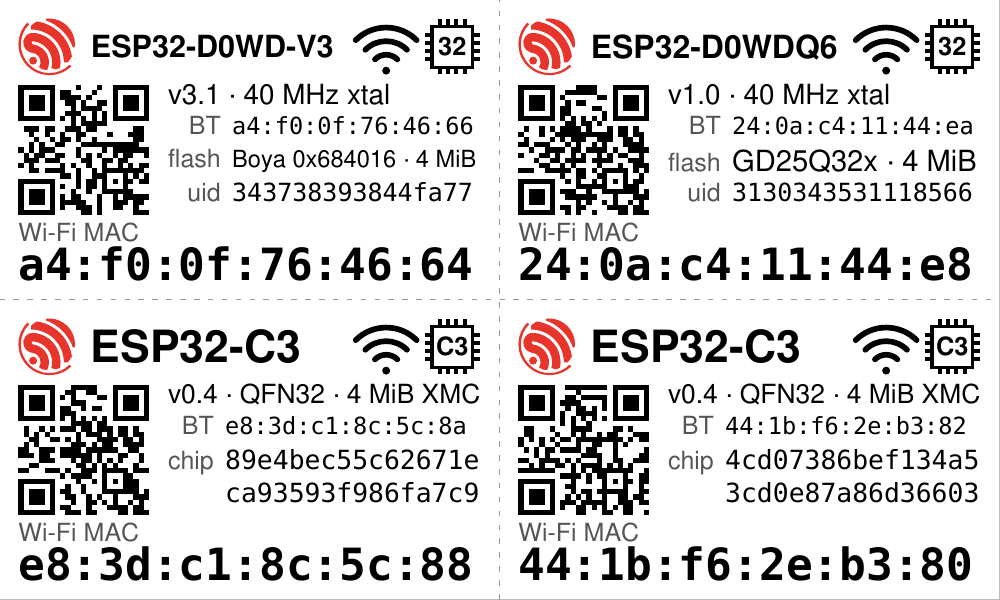
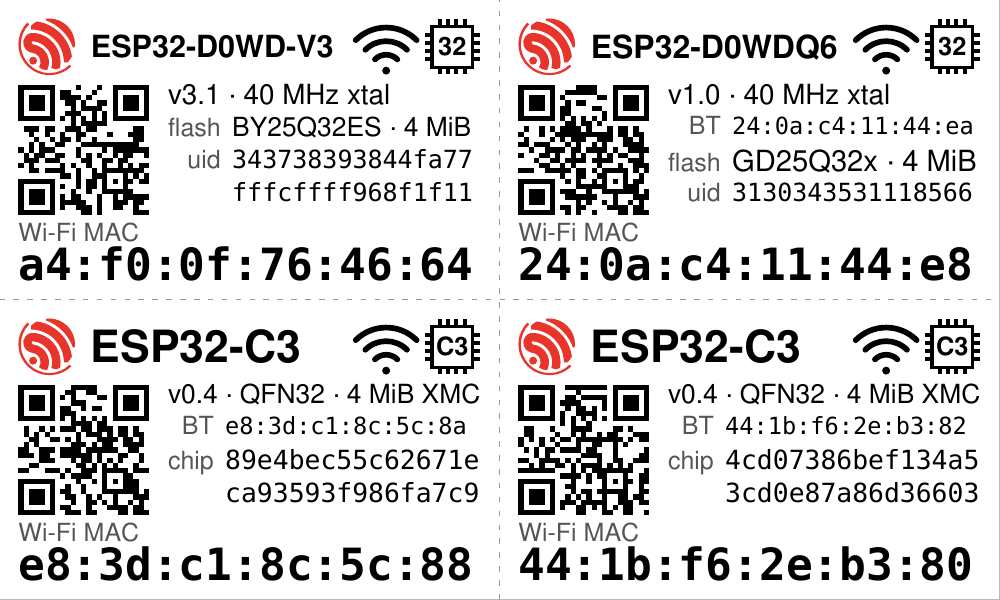
esp32_micro: a 128-bit flash uid over two rows, and the reads of 09-27
The fixture is now the reads the register-level probe made on
2026-09-27: every flash's RDID, status registers, whole SFDP and whole
unique id. The ESP32-CAM's Boya gave 128 bits, which the id alone
(0x684016, shared by the BY25Q32BS and ES) cannot name but the uid's
length can: the BS datasheet gives 64 bits, the ES 128. Its uid now
takes two rows, where the derived Bluetooth MAC was. 0x46 is XMC (ESP-
IDF's SPI_FLASH_XMC_2, its "XMC-D").

Claude-Session: https://claude.ai/code/session_01PBYpeR32kHxmN65GqkGhJx

Changed region(s): [[0.155, 0.18, 0.496, 0.36]]

diff --git a/src/rpi_hwid/esp32_micro.py b/src/rpi_hwid/esp32_micro.py
@@ -7,13 +7,14 @@ identifier: in the QR and along the foot. Beside the QR, the Bluetooth MAC
 and then the second identifier the chip has:
 
   * a chip with an OPTIONAL_UNIQUE_ID in eFuse (the C3, measured on three
-    SuperMinis on 2026-09-26) carries those 128 bits, over two rows. The
-    C3's in-package flash answered Read Unique ID with zeroes on all three,
-    so there the flash has none to give, and its size and vendor go in the
-    subtitle instead;
+    SuperMinis on 2026-09-26) carries those 128 bits, over two rows. Its
+    in-package flash has a unique id too (an XMC's 128 bits, read on
+    2026-09-27), which stays in the document: the chip's own is the one
+    printed, and the flash's size and vendor go in the subtitle;
   * an original ESP32 has no such field, so its external flash is named on
-    a row of its own with the flash's own unique id under it -- an
-    ESP32-CAM's Boya and a devkit's GigaDevice both answered one.
+    a row of its own with the flash's own unique id under it: 64 bits on
+    one row (a devkit's GigaDevice), or 128 over two (an ESP32-CAM's Boya),
+    which then takes the row the derived Bluetooth MAC would have had.
 
 Everything on it was read from the chip, except the Bluetooth MAC, which is
 derived. ESP-IDF hands out the MACs of a chip with four universally
@@ -67,11 +68,19 @@ CHIP_UID = {"ESP32-C3"}
 
 # JEDEC manufacturer codes rpi_hwid.labels does not name, as flashrom's
 # include/flashchips.h has them (BOYA_BOHONG_ID 0x68): an ESP32-CAM's flash.
-JEDEC_VENDOR = {0x68: "Boya"}
+# 0x46 is not in flashrom: it is ESP-IDF's SPI_FLASH_XMC_2 (esp_mspi's
+# spi_flash_defs.h), whose generic driver calls a 0x46 part "XMC-D" -- the
+# flash inside the ESP32-C3 SuperMinis, whose eFuse FLASH_VENDOR says XMC.
+JEDEC_VENDOR = {0x68: "Boya", 0x46: "XMC"}
 # ...and parts, with the letters the id cannot settle written as x, as
 # rpi_hwid.labels.JEDEC_PART does: flashrom's GIGADEVICE_GD25Q32 0x4016,
 # "Same as GD25Q32B" -- the devkit on rpi4-esp.
-JEDEC_PART = {0xC84016: "GD25Q32x"}
+JEDEC_PART = {0xC84016: "GD25Q32x", 0x684016: "BY25Q32xS"}
+# Parts that share an id and an SFDP but not the length of their unique id,
+# which the read measures. BYTe's BY25Q32BS datasheet (Rev. 2.4, 7.3.5) gives
+# a 64-bit id and its BY25Q32ES (Rev. 2.2, 7.3.5) a 128-bit one, with the SFDP
+# headers of the two identical; the ESP32-CAM's gave 128 bits (2026-09-27).
+PART_BY_UID_BITS = {0x684016: {64: "BY25Q32BS", 128: "BY25Q32ES"}}
 
 
 class Esp32NotReadError(labels.IdentifierNotReadError):
@@ -93,6 +102,8 @@ class Esp32Device:
     crystal_mhz: int | None = None
     flash_jedec: str | None = None
     flash_uid: str | None = None
+    flash_uid_bits: int | None = None
+    flash_sfdp: str | None = None
     efuse: Mapping[str, Any] | None = None
     bridge: str | None = None
     usb_serial: str | None = None
@@ -108,6 +119,7 @@ class Esp32Device:
             revision=d.get("revision"), package=d.get("package"),
             features=tuple(d.get("features") or ()), crystal_mhz=d.get("crystal_mhz"),
             flash_jedec=d.get("flash_jedec"), flash_uid=d.get("flash_uid"),
+            flash_uid_bits=d.get("flash_uid_bits"), flash_sfdp=d.get("flash_sfdp"),
             efuse=d.get("efuse") or {}, bridge=d.get("bridge"),
             usb_serial=d.get("usb_serial"), tty_links=tuple(d.get("tty_links") or ()),
             read_error=d.get("read_error"), read_errors=d.get("read_errors") or {},
@@ -183,21 +195,24 @@ def flash_line(dev: Esp32Device) -> str | None:
     if inside:
         size, vendor = inside
         return " ".join(x for x in (size, vendor) if x)
-    info = labels.flash_from_jedec(dev.flash_jedec)
+    info = labels.flash_from_jedec(dev.flash_jedec, sfdp=dev.flash_sfdp)
     if not info["jedec"]:
         return None
     value = int(info["jedec"], 16)
     # A named part says its vendor already, and at a micro label's width the
     # vendor's name is what would push the size off the end of the row.
-    part = info["part"] or JEDEC_PART.get(value)
+    part = (PART_BY_UID_BITS.get(value, {}).get(dev.flash_uid_bits or 0)
+            or info["part"] or JEDEC_PART.get(value))
     what = part or " ".join(x for x in (
         info["vendor"] or JEDEC_VENDOR.get(value >> 16), info["jedec"]) if x)
     return " · ".join(x for x in (what, info["size"]) if x)
 
 
 def valid_flash_uid(uid: str | None) -> bool:
-    """A read uid, not the all-ones or all-zeroes a flash without one gives."""
-    return bool(re.fullmatch(r"[0-9a-f]{16}", uid or "")) and len(set(uid or "")) > 1
+    """A read uid -- 64 or 128 bits -- not the all-ones or all-zeroes a flash
+    without one gives."""
+    return (bool(re.fullmatch(r"[0-9a-f]{16}|[0-9a-f]{32}", uid or ""))
+            and len(set(uid or "")) > 1)
 
 
 def read_command(host: str, dev: Esp32Device) -> str:
@@ -233,9 +248,13 @@ def esp32_label(host: str, dev: Esp32Device) -> MicroLabel:
     icons = ((Icon("wifi"),) if dev.wifi else ()) + (Icon("chip", short),)
     rows = []
     bt = bt_mac(dev)
-    if bt:
-        rows.append(MicroRow("BT", bt, mono=True))
     flash = flash_line(dev)
+    uid = dev.flash_uid if valid_flash_uid(dev.flash_uid) else None
+    # A 128-bit flash uid takes two rows, and the Bluetooth MAC -- derived,
+    # not read -- gives up its row to the half of it that would not fit.
+    uid_rows = 0 if chip_uid or not uid else len(uid) // 16
+    if bt and uid_rows < 2:
+        rows.append(MicroRow("BT", bt, mono=True))
     # Single spaces round the dots, unlike the whole labels' subtitles: at the
     # micro label's width the doubled ones cost the line its last fact.
     if chip_uid:
@@ -248,8 +267,9 @@ def esp32_label(host: str, dev: Esp32Device) -> MicroLabel:
             f"{dev.crystal_mhz} MHz xtal" if dev.crystal_mhz else None) if x)
         if flash:
             rows.append(MicroRow("flash", flash))
-        if valid_flash_uid(dev.flash_uid):
-            rows.append(MicroRow("uid", dev.flash_uid or "", mono=True))
+        if uid:
+            rows += [MicroRow("uid", uid[:16], mono=True)] + (
+                [MicroRow("", uid[16:], mono=True)] if uid[16:] else [])
     return MicroLabel(
         host=host, title=dev.chip, subtitle=subtitle, mark=MARK, icons=icons,
         ident_caption="Wi-Fi MAC" if dev.wifi else "MAC", ident=dev.mac, rows=tuple(rows),

diff --git a/tests/test_esp32_micro.py b/tests/test_esp32_micro.py
@@ -76,9 +76,10 @@ def test_an_original_esp32_carries_its_flash_and_the_flash_uid():
     assert cam.title == "ESP32-D0WD-V3"
     assert cam.icons == (Icon("wifi"), Icon("chip", "32"))
     assert cam.subtitle == "v3.1 · 40 MHz xtal"
-    assert cam.rows == (MicroRow("BT", "a4:f0:0f:76:46:66", mono=True),
-                        MicroRow("flash", "Boya 0x684016 · 4 MiB"),
-                        MicroRow("uid", "343738393844fa77", mono=True))
+    # a 128-bit flash uid over two rows, where the (derived) BT MAC was
+    assert cam.rows == (MicroRow("flash", "BY25Q32ES · 4 MiB"),
+                        MicroRow("uid", "343738393844fa77", mono=True),
+                        MicroRow("", "fffcffff968f1f11", mono=True))
     (dev,) = esp32_micro.micro_labels(_docs(DEVKIT, host="rpi4-esp"))
     assert dev.rows[1:] == (MicroRow("flash", "GD25Q32x · 4 MiB"),
                             MicroRow("uid", "3130343531118566", mono=True))

diff --git a/docs/examples/render_esp32.py b/docs/examples/render_esp32.py
@@ -4,7 +4,7 @@
     uv run docs/examples/render_esp32.py
 
 The records are tests/esp32_devices.json: what `rpi-hwid collect
---esp32-read` wrote on 2026-09-26 for the three ESP32-C3 SuperMinis on
+--esp32-read` wrote on 2026-09-27 for the three ESP32-C3 SuperMinis on
 rpi5-433mhz and the ESP32-CAM and devkit on rpi4-esp. Five labels make two
 stickers, four and one; each is cut out of the rendered sheet by the label
 grid at 400 dpi, as render_micro.py does. Needs pdftoppm (poppler-utils).

diff --git a/docs/LABELS.md b/docs/LABELS.md
@@ -300,18 +300,19 @@ esp32`), laid out like this:
   octet, so the row is printed only for the families that table covers.
 - **Second identifier:** where the chip has one in eFuse, its 128-bit
   `OPTIONAL_UNIQUE_ID`, over two rows. Otherwise, the external flash and the
-  flash's own unique id.
+  flash's own unique id: one row for 64 bits, two for 128, which then take the
+  BT row's place.
 
 <p>
 <img src="https://raw.githubusercontent.com/mithro/rpi-hwid/main/docs/examples/esp32-sticker-1.png" alt="Four ESP32 micro labels from real reads: an ESP32-CAM and a devkit (original ESP32s, keyed on their flash's unique id) over two ESP32-C3 SuperMinis (keyed on the chip's OPTIONAL_UNIQUE_ID)" width="98%">
 </p>
 
-These are real reads from 2026-09-26, from `tests/esp32_devices.json`: an
+These are real reads from 2026-09-27, from `tests/esp32_devices.json`: an
 ESP32-CAM and a devkit on rpi4-esp, and two of the three C3 radio nodes on
 rpi5-433mhz. `docs/examples/render_esp32.py` regenerates them. The C3s'
-in-package XMC flash answers Read Unique ID with zeroes, which is why their
-second identifier is the chip's own; a flash uid that reads back blank is left
-off rather than printed. What is *not* read is refused, as on every other label:
+in-package XMC flash has a 128-bit unique id of its own, kept in the document;
+their label carries the chip's. A flash uid that reads back blank is left off
+rather than printed. What is *not* read is refused, as on every other label:
 
 - An ESP32 known only from the USB tree (a MAC and nothing else) is an error.
 - So is a C3 whose eFuse read failed.
